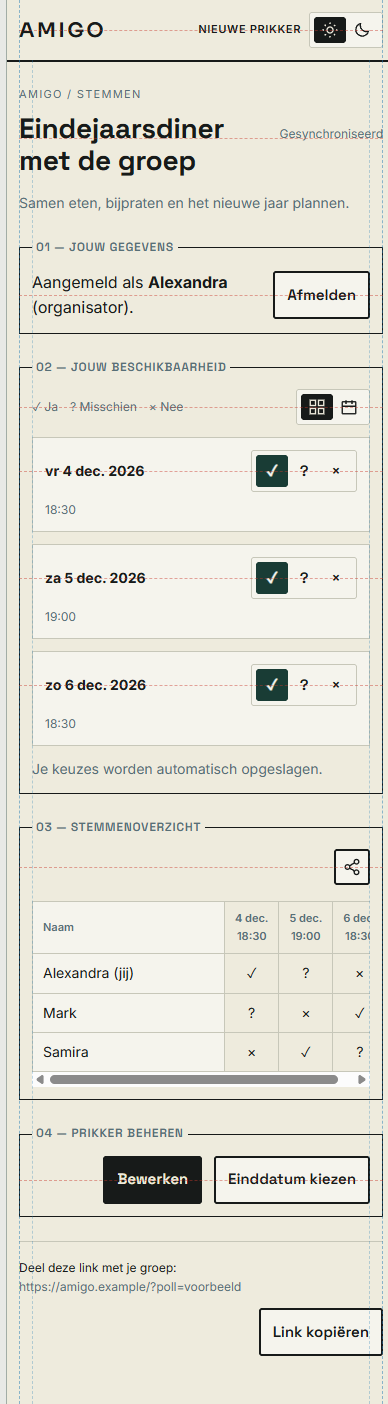
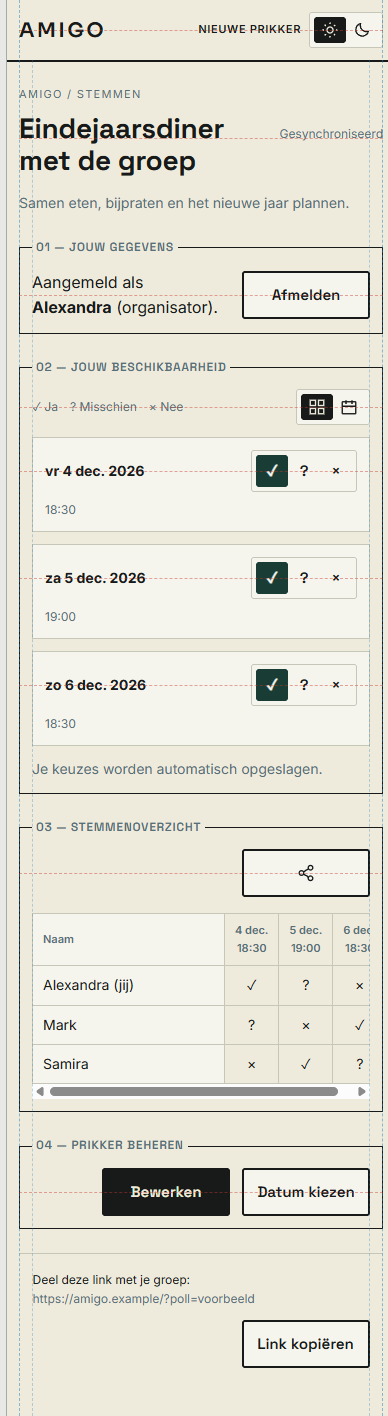
Wireframe refining

diff --git a/docs/planner-wireframe.html b/docs/planner-wireframe.html
@@ -394,7 +394,7 @@ OTHER DEALINGS IN THE FONT SOFTWARE.
       if (final && state.sort === 'attendance') entries.sort((a, b) => b.yes - a.yes || a.day - b.day);
       return `<div class="cards">${entries.map(date => `<article class="date-card ${final ? 'final-card' : ''}">
         <strong>${date.label}</strong>
-        ${final ? button(date.day === 6 ? 'Geselecteerd' : 'Kies deze datum', 'select-date', date.day !== 6, `aria-pressed="${date.day === 6}"`) : `<div class="votes" role="group" aria-label="Beschikbaarheid op ${date.label}">${['✓', '?', '×'].map((vote, i) => button(vote, 'vote', false, `aria-label="${['Ja', 'Misschien', 'Nee'][i]}" aria-pressed="${i === 0}"`)).join('')}</div>`}
+        ${final ? button(date.day === 6 ? 'Gekozen' : 'Selecteren', 'select-date', date.day !== 6, `aria-pressed="${date.day === 6}"`) : `<div class="votes" role="group" aria-label="Beschikbaarheid op ${date.label}">${['✓', '?', '×'].map((vote, i) => button(vote, 'vote', false, `aria-label="${['Ja', 'Misschien', 'Nee'][i]}" aria-pressed="${i === 0}"`)).join('')}</div>`}
         <p class="card-meta"><span class="time">${date.time}</span>${final ? `<span>${date.yes} ja, 1 misschien, 1 nee</span>` : ''}</p>
       </article>`).join('')}</div>`;
     }
@@ -419,14 +419,14 @@ OTHER DEALINGS IN THE FONT SOFTWARE.
         ${segment('01 — Prikker instellen', `<div class="fields">${label('Titel', title())}${description()}</div>`)}
         ${segment('02 — Organisator', `<div class="fields">${label('Naam organisator', person())}${label('Wachtwoord', 'voorbeeld', 'password')}${participation()}</div>`)}
         ${segment('03 — Mogelijke datums', calendar(true) + `<div class="selected-dates"><p>Geselecteerd (${dates().length}) — optioneel een tijdstip:</p>${dates().map(date => `<div class="date-row"><span>${date.label}</span><input type="time" aria-label="Tijdstip voor ${date.label}" value="${date.time}">${button('×', 'remove-date', true, 'aria-label="Verwijder datum"', 'square')}</div>`).join('')}</div>`)}
-        ${actionRow(button('Prikker aanmaken', 'share'))}</form>`;
+        <div class="page-actions">${actionRow(button('Aanmaken', 'share'))}</div></form>`;
     }
     function share() {
       return `<div class="eyebrow">AMIGO / delen</div><h1>Deel je datumprikker</h1><p class="description">${title()}</p>
-        <div class="segments">${segment('Stemlink', `<div class="fields">${label('Stemlink', 'https://amigo.example/?poll=voorbeeld', 'url', 'readonly')}<p class="description">Klaar om te delen.</p>${actionRow(button('Link kopiëren', 'copy', true) + button('Naar de datumprikker', 'poll'))}</div>`)}</div>`;
+        <div class="segments">${segment('Stemlink', `<div class="fields">${label('Stemlink', 'https://amigo.example/?poll=voorbeeld', 'url', 'readonly')}<p class="description">Klaar om te delen.</p>${actionRow(button('Link kopiëren', 'copy', true) + button('Open prikker', 'poll'))}</div>`)}</div>`;
     }
     function credentials() {
-      if (state.scenario === 'guest') return `<div class="access-row"><div class="fields">${label('Jouw naam', '')}${label('Wachtwoord', '', 'password')}</div><div class="actions">${button('Aanmelden', 'login')}</div></div><p class="description hint">Gebruik je bestaande wachtwoord of kies als nieuwe deelnemer een wachtwoord.</p>`;
+      if (state.scenario === 'guest') return `<div class="access-row"><div class="fields">${label('Jouw naam', '')}${label('Wachtwoord', '', 'password')}</div><div class="actions">${button('Aanmelden', 'login')}</div></div>`;
       return `<div class="access-row"><p>Aangemeld als <strong>${escape(person())}</strong>${state.scenario !== 'voter' ? ' (organisator)' : ''}.</p>${actionRow(button('Afmelden', 'logout', true))}</div>`;
     }
     function edit() {
@@ -439,13 +439,13 @@ OTHER DEALINGS IN THE FONT SOFTWARE.
     function final() {
       return `<h2>${state.scenario === 'closed' ? 'Einddatum wijzigen' : 'Einddatum kiezen'}</h2>${choices(true)}
         <p class="selection-summary">Zo 6 dec. 2026, 18:30 — 5 ja, 1 misschien, 1 nee</p>
-        ${actionRow(button('Bevestig deze datum', 'confirm') + button('Annuleren', 'poll', true))}`;
+        ${actionRow(button('Bevestigen', 'confirm') + button('Annuleren', 'poll', true))}`;
     }
     function management() {
       if (state.screen === 'edit') return edit();
       if (state.screen === 'final') return final();
-      return `${actionRow(button('Bewerken', 'edit') + button(state.scenario === 'closed' ? 'Einddatum wijzigen' : 'Einddatum kiezen', 'final', true))}
-        ${state.scenario === 'closed' ? `<div class="reopen"><p class="description">Verwijder de gekozen datum en laat iedereen opnieuw stemmen. Bestaande stemmen blijven behouden.</p>${button('Poll heropenen', 'reopen', true)}</div>` : ''}`;
+      return `${actionRow(button('Bewerken', 'edit') + button(state.scenario === 'closed' ? 'Wijzig datum' : 'Datum kiezen', 'final', true))}
+        ${state.scenario === 'closed' ? `<div class="reopen"><p class="description">Verwijder de gekozen datum en laat iedereen opnieuw stemmen. Bestaande stemmen blijven behouden.</p>${button('Heropenen', 'reopen', true)}</div>` : ''}`;
     }
     function poll() {
       const authorized = ['organizer', 'closed'].includes(state.scenario);
@@ -489,7 +489,9 @@ OTHER DEALINGS IN THE FONT SOFTWARE.
       input[type=checkbox]:checked:after { content:'✓'; color:white; font-size:14px; line-height:1; }
       .access-row { display:grid; grid-template-columns:minmax(0,1fr) auto; align-items:center; gap:16px; } .access-row:has(>.fields) { align-items:end; } .access-row>.fields { max-width:320px; }
       .access-row p { overflow-wrap:anywhere; } .actions { display:flex; flex-wrap:wrap; align-items:center; justify-content:flex-end; gap:12px; }
-      .actions>button { max-width:208px; } .hint { margin:12px 0 0; } .choices { min-width:0; }
+      .actions>button,.reopen>button,.share-footer>button,.final-card>button { width:128px; min-width:128px; max-width:128px; height:48px; min-height:48px; flex:0 0 128px; padding:4px 8px; line-height:1.2; }
+      .page-actions,.share-footer { padding-inline:calc(var(--inset) + 1.5px); }
+      .hint { margin:12px 0 0; } .choices { min-width:0; }
       .toolbar { display:flex; flex-wrap:wrap; justify-content:space-between; align-items:center; gap:12px; margin-bottom:12px; }
       .toolbar .toggle { margin-left:auto; } .legend { display:flex; flex-wrap:wrap; gap:12px; font-size:12px; color:var(--muted); }
       .toggle { display:inline-flex; flex:none; padding:4px; border:1px solid var(--border); border-radius:3px; gap:0; background:var(--surface); min-height:36px; }
@@ -501,7 +503,7 @@ OTHER DEALINGS IN THE FONT SOFTWARE.
       .votes { display:flex; border:1px solid var(--border); padding:4px; border-radius:3px; }
       .votes button { min-height:32px; min-width:32px; border:0; padding:4px 6px; background:transparent; color:var(--ink); }
       .votes button[aria-pressed=true] { background:#193c35; color:#f5f4ed; }
-      .final-card>button { grid-column:2; grid-row:1; max-width:150px; } .final-card>p { grid-row:2; grid-column:1/-1; font-size:12px; color:var(--muted); }
+      .final-card>button { grid-column:2; grid-row:1; } .final-card>p { grid-row:2; grid-column:1/-1; font-size:12px; color:var(--muted); }
       .final-card button[aria-pressed=true] { background:#d21f26; border-color:#d21f26; color:white; }
       .selection-summary { margin-block:16px; font-size:14px; } .readonly { opacity:.65; }
       .calendar-head { display:flex; justify-content:space-between; align-items:center; gap:12px; margin-bottom:12px; }
@@ -601,7 +603,7 @@ OTHER DEALINGS IN THE FONT SOFTWARE.
         else if (action === 'confirm') { state.screen = 'poll'; state.scenario = 'closed'; $('screen').value = 'poll'; }
         else if (action === 'reopen') state.scenario = 'organizer';
         else if (action === 'copy') { target.textContent = target.classList.contains('icon-button') ? '✓' : 'Gekopieerd ✓'; target.setAttribute('aria-label', 'Gekopieerd'); return; }
-        else if (action === 'select-date') { doc.querySelectorAll('.final-card button').forEach(button => { const selected = button === target; button.setAttribute('aria-pressed', selected); button.textContent = selected ? 'Geselecteerd' : 'Kies deze datum'; button.classList.toggle('secondary', !selected); }); return; }
+        else if (action === 'select-date') { doc.querySelectorAll('.final-card button').forEach(button => { const selected = button === target; button.setAttribute('aria-pressed', selected); button.textContent = selected ? 'Gekozen' : 'Selecteren'; button.classList.toggle('secondary', !selected); }); return; }
         else return;
         render();
       });

diff --git a/src/components/VoterForm.jsx b/src/components/VoterForm.jsx
@@ -20,7 +20,7 @@ export default function VoterForm({ pollId, dates, participants, loginResults, s
   const availability = useRef(null);
   const handledLogin = useRef(null);
 
-  const [id, person] = Object.entries(participants).find(([, person]) => normalize(person.name) === normalize(name)) || [];
+  const [id] = Object.entries(participants).find(([, person]) => normalize(person.name) === normalize(name)) || [];
   const activePerson = participants[session?.voter];
   const votingSignedIn = Boolean(session && activePerson);
   const signedIn = votingSignedIn || Boolean(session?.organizer);
@@ -104,7 +104,7 @@ export default function VoterForm({ pollId, dates, participants, loginResults, s
   return (
     <div className="form">
       <CollapsibleSegment ref={segment} title="01 — Jouw gegevens" open={active}>
-        <form onSubmit={signIn}>
+        <form onSubmit={signIn} aria-busy={locked || undefined}>
           <fieldset className="voter-credentials" disabled={busy}>
             <div className="access-row">
               <div className="access-fields">
@@ -112,7 +112,7 @@ export default function VoterForm({ pollId, dates, participants, loginResults, s
                   <p>Aangemeld als <strong>{activePerson?.name || session.name}</strong>{session.organizer ? ' (organisator)' : ''}.</p>
                 ) : (
                   <>
-                    <label>Jouw naam<input value={name} required disabled={locked} onChange={e => {
+                    <label>Naam<input value={name} required disabled={locked} onChange={e => {
                       setName(e.target.value);
                       setPassword('');
                       setError('');
@@ -131,10 +131,6 @@ export default function VoterForm({ pollId, dates, participants, loginResults, s
                 {signedIn && <button type="button" className="btn-secondary" disabled={busy || saving > 0} onClick={reset}>Afmelden</button>}
               </div>
             </div>
-            {!signedIn && <p className="description access-hint">{person
-              ? 'Meld je aan met je wachtwoord om je antwoorden te bekijken en aan te passen.'
-              : 'Gebruik je bestaande wachtwoord of kies als nieuwe deelnemer een wachtwoord.'}</p>}
-            {pending && <p role="status" className="description">Je aanmelding wordt gecontroleerd. Wacht op verbinding met de database.</p>}
             {outcome?.rejection && <p role="alert" className="error">{outcome.rejection}</p>}
           </fieldset>
         </form>

diff --git a/src/styles/planner-layout.css b/src/styles/planner-layout.css
@@ -7,6 +7,7 @@
   --planner-section-gap: 24px;
   --planner-field-gap: 16px;
   --planner-control-gap: 12px;
+  --planner-action-width: 128px;
 }
 
 .planner-header .wrap,
@@ -51,12 +52,23 @@
 .planner-page .access-row:has(.access-fields input) { align-items: end; }
 .planner-page .access-fields { gap: var(--planner-field-gap); }
 .planner-page .access-fields p { overflow-wrap: anywhere; }
-.planner-page .access-hint { margin: 12px 0 0; }
 .planner-page .edit-actions { align-items: center; gap: var(--planner-control-gap); }
-.planner-page .edit-actions > :is(button, .btn) { width: auto; max-width: 208px; }
+.planner-page :is(.edit-actions, .organizer-reopen, .share-hint, .date-jump-actions) > :is(button, .btn),
+.planner-page .date-cards > li > button {
+  width: var(--planner-action-width);
+  min-width: var(--planner-action-width);
+  max-width: var(--planner-action-width);
+  height: 48px;
+  min-height: 48px;
+  flex: 0 0 var(--planner-action-width);
+  padding: 4px 8px;
+  font-size: 15px;
+  line-height: 1.2;
+}
+.planner-page .planner-page-actions,
+.planner-page .share-hint { padding-inline: calc(var(--planner-inset) + 1.5px); }
 .planner-page button[type]:not(:where(.calendar button, .date-row button, .vote-grid button, .segmented-control__option, .copy-button--icon)) { font-size: 15px; }
 .planner-page .organizer-actions { flex-wrap: wrap; }
-.planner-page .organizer-actions button[type] { flex: 0 1 auto; min-width: 0; width: auto; max-width: 208px; }
 .planner-page .organizer-reopen { margin-top: 24px; gap: 12px 16px; }
 .planner-page .organizer-reopen > p { margin: 0; }
 .planner-page .organizer-panel--final { gap: 16px; }

diff --git a/src/components/OrganizerPanel.jsx b/src/components/OrganizerPanel.jsx
@@ -54,7 +54,7 @@ export default function OrganizerPanel({ dates, votes, finalDateId = '', onConfi
         </div>
       } renderCard={day => (
           <button type="button" aria-pressed={day === selectedDateId} onClick={() => setSelectedDateId(day)}>
-            {day === selectedDateId ? 'Geselecteerd' : 'Kies deze datum'}
+            {day === selectedDateId ? 'Gekozen' : 'Selecteren'}
           </button>
       )} renderCardMeta={day => <span>{tally[day].yes} ja, {tally[day].maybe} misschien, {tally[day].no} nee</span>} renderDay={(day, number) => (
         <button type="button" aria-label={formatDay(day)} aria-pressed={day === selectedDateId}
@@ -66,7 +66,7 @@ export default function OrganizerPanel({ dates, votes, finalDateId = '', onConfi
       {selected && <p role="status">{formatProposal(selected.date, selected.time)} — {counts.yes} ja, {counts.maybe} misschien, {counts.no} nee</p>}
       {error && <p className="error" role="alert">{error}</p>}
       <div className="edit-actions">
-        <button type="button" onClick={handleConfirm} disabled={!selected || selectedDateId === finalDateId || saving}>Bevestig deze datum</button>
+        <button type="button" onClick={handleConfirm} disabled={!selected || selectedDateId === finalDateId || saving}>Bevestigen</button>
         <button type="button" className="btn-secondary" onClick={onCancel} disabled={saving}>Annuleren</button>
       </div>
     </section>

diff --git a/src/components/OrganizerUnlock.jsx b/src/components/OrganizerUnlock.jsx
@@ -27,11 +27,11 @@ export default function OrganizerUnlock({ onEdit, onChooseFinal, onReopen, final
             {onChooseFinal && <button ref={finalButton} type="button" value="final" className="btn-secondary" disabled={!authorized} onClick={() => {
               lastAction.current = 'final';
               onChooseFinal();
-            }}>{finalDateChosen ? 'Einddatum wijzigen' : 'Einddatum kiezen'}</button>}
+            }}>{finalDateChosen ? 'Wijzig datum' : 'Datum kiezen'}</button>}
           </div>
           {finalDateChosen && onReopen && <div className="organizer-reopen">
             <p className="description">Verwijder de gekozen datum en laat iedereen opnieuw stemmen. Bestaande stemmen blijven behouden.</p>
-            <button type="button" value="reopen" className="btn-secondary" disabled={!authorized} onClick={onReopen}>Poll heropenen</button>
+            <button type="button" value="reopen" className="btn-secondary" disabled={!authorized} onClick={onReopen}>Heropenen</button>
           </div>}
         </>}
       </CollapsibleSegment>

diff --git a/src/components/PollPage.jsx b/src/components/PollPage.jsx
@@ -174,7 +174,7 @@ export default function PollPage({ pollId, share }) {
               <p role="status" className="description">{row.base ? 'Klaar om te delen.' : 'Lokaal bewaard. Anderen kunnen de link openen na synchronisatie.'}</p>
               <div className="edit-actions">
                 <CopyButton text={link} label="Link kopiëren" secondary />
-                <a className="btn" href={link}>Naar de datumprikker</a>
+                <a className="btn" href={link}>Open prikker</a>
               </div>
             </div>
           </fieldset>

diff --git a/src/components/CreatePollPage.jsx b/src/components/CreatePollPage.jsx
@@ -152,9 +152,11 @@ export default function CreatePollPage({ onCreated }) {
 
         {error && <p className="error">{error}</p>}
 
-        <button type="submit" disabled={submitting}>
-          {submitting ? 'Bezig...' : 'Prikker aanmaken'}
-        </button>
+        <div className="edit-actions planner-page-actions">
+          <button type="submit" disabled={submitting}>
+            {submitting ? 'Bezig...' : 'Aanmaken'}
+          </button>
+        </div>
       </form>
     </div>
   );

diff --git a/src/styles/planner.css b/src/styles/planner.css
@@ -216,10 +216,6 @@ h2 {
   max-width: 12rem;
 }
 
-.access-hint {
-  margin: 0.75rem 0 0;
-}
-
 .edit-actions.organizer-actions {
   flex-wrap: nowrap;
 }
